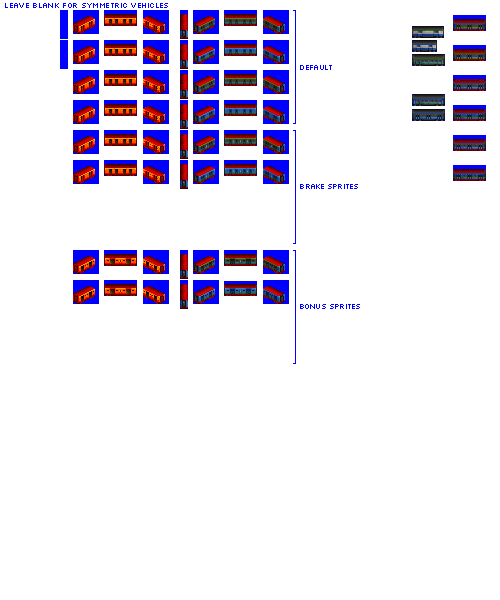
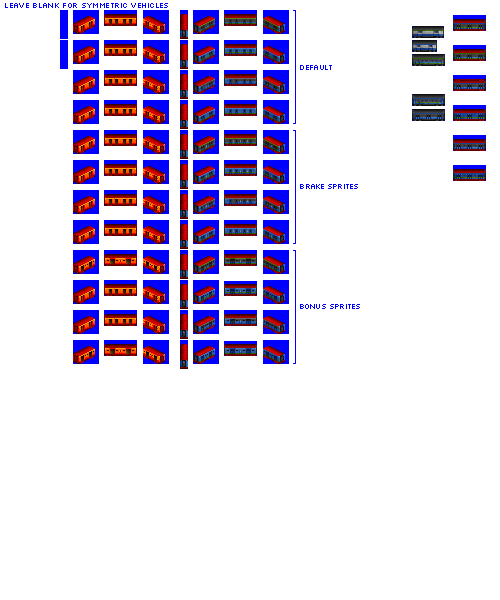
Change: additional liveries for gen 5 mail cars

diff --git a/src/vehicles/mail_cars.py b/src/vehicles/mail_cars.py
@@ -145,7 +145,7 @@ def main():
         base_numeric_id=9560,
         gen=5,
         subtype="A",
-        sprites_complete=False,
+        sprites_complete=True,
     )
 
     consist.add_unit(type=ExpressMailCar, chassis="2_axle_solid_express_16px")
@@ -155,7 +155,7 @@ def main():
         base_numeric_id=10010,
         gen=5,
         subtype="B",
-        sprites_complete=False,
+        sprites_complete=True,
     )
 
     consist.add_unit(type=ExpressMailCar, chassis="4_axle_solid_express_24px")
@@ -165,7 +165,7 @@ def main():
         base_numeric_id=12180,
         gen=5,
         subtype="C",
-        sprites_complete=False,
+        sprites_complete=True,
     )
 
     consist.add_unit(type=ExpressMailCar, chassis="4_axle_solid_express_32px")

diff --git a/src/train.py b/src/train.py
@@ -1352,16 +1352,10 @@ class MailEngineRailcarConsist(MailEngineConsist):
                 "last": 2,
                 "special": 0,
             }
-        # temp kludge
-        if self.id in ["scooby", "dover", "workish", "zorro"]:
-            liveries=self.roster.default_mail_liveries
-        else:
-            liveries=[{}, {}]
-
         self.gestalt_graphics = GestaltGraphicsConsistPositionDependent(
             spriterow_group_mappings,
             consist_ruleset=consist_ruleset,
-            liveries=liveries,
+            liveries=self.roster.default_mail_liveries,
             # temp commented out until spritesheets revised
             #liveries=self.roster.default_mail_liveries,
             pantograph_type=self.pantograph_type,

diff --git a/src/vehicles/jupiter.py b/src/vehicles/jupiter.py
@@ -16,7 +16,7 @@ def main(roster_id):
         easter_egg_haulage_speed_bonus=True,
         use_3_unit_sets=True,
         gen=5,
-        sprites_complete=False,
+        sprites_complete=True,
         intro_year_offset=-3,
     )  # introduce early by design
 

diff --git a/src/vehicles/plastic_postbox.py b/src/vehicles/plastic_postbox.py
@@ -14,7 +14,7 @@ def main(roster_id):
             "DIESEL": 560,
         },
         gen=5,
-        sprites_complete=False,
+        sprites_complete=True,
         intro_year_offset=-5,
     )  # introduce early by design
 
